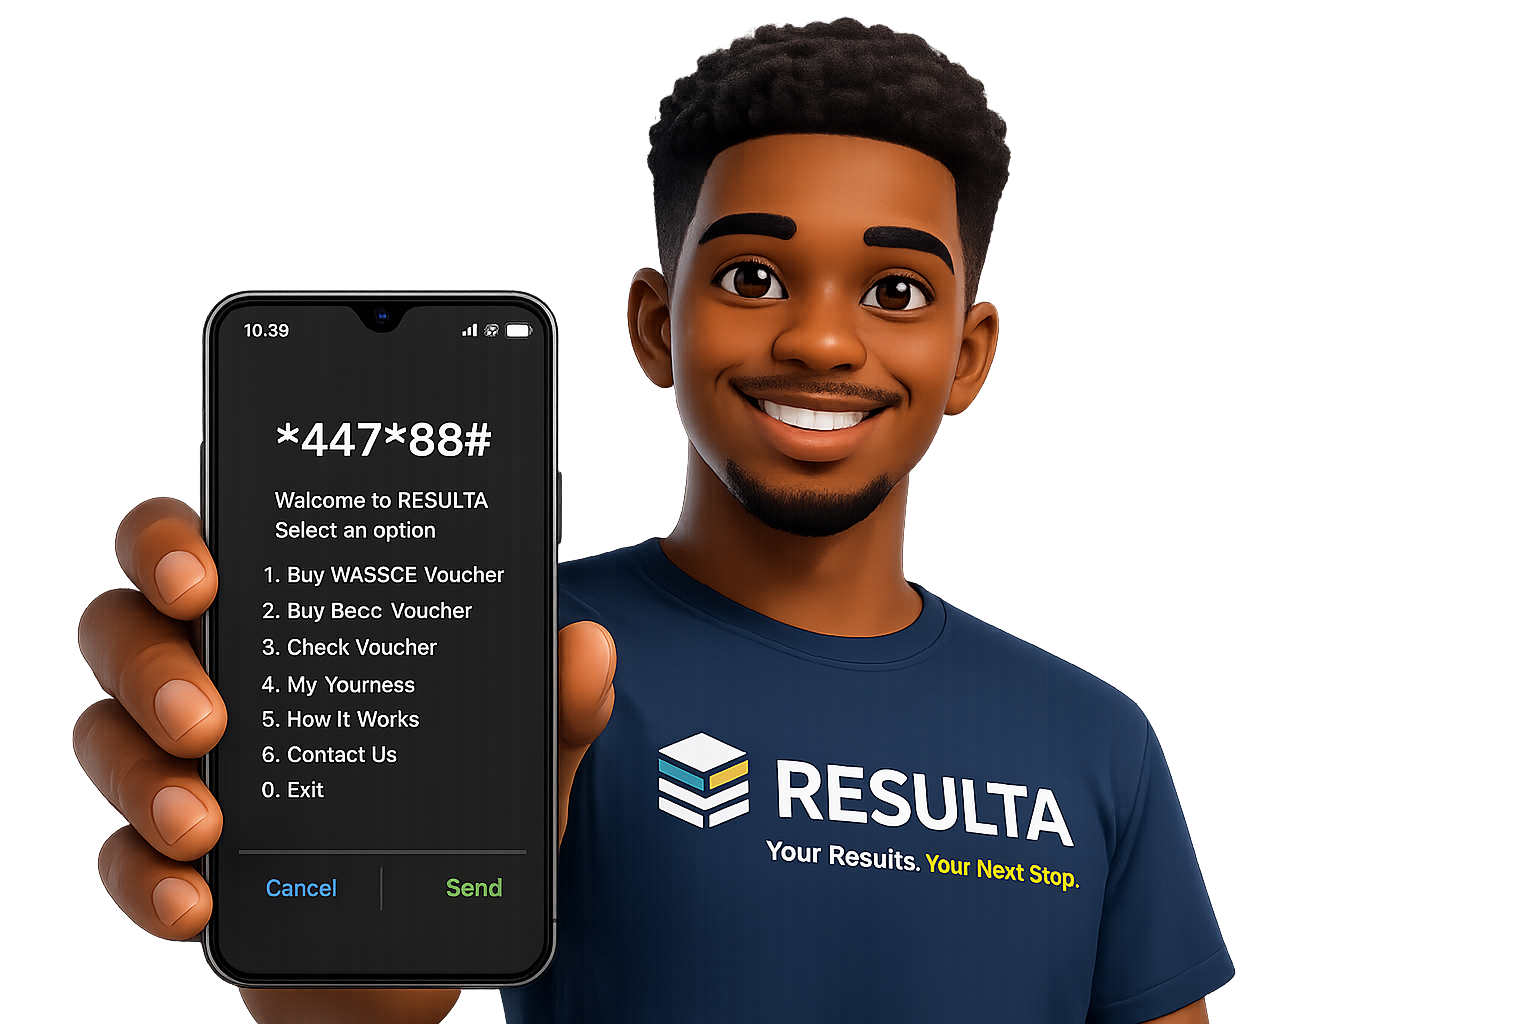
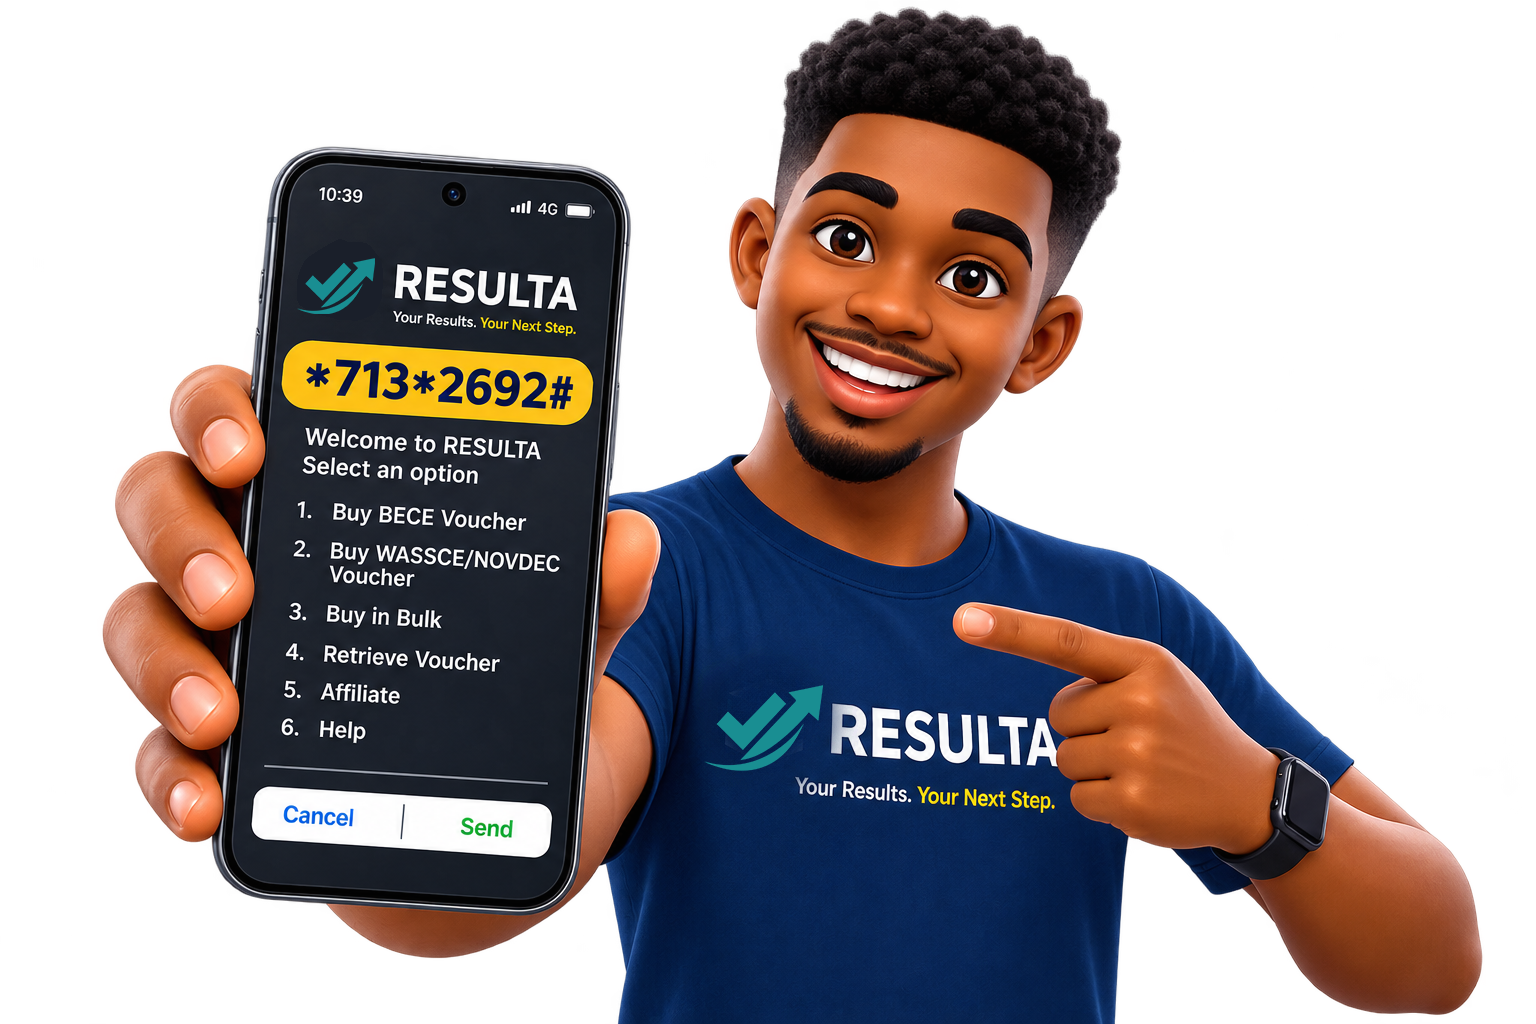
Live USSD codes updated on site

diff --git a/src/components/website/home/HeroSection.tsx b/src/components/website/home/HeroSection.tsx
@@ -102,11 +102,11 @@ const slides = [
             </span>
 
             <h1 className="text-3xl sm:text-4xl lg:text-5xl font-extrabold text-white leading-tight">
-              Buy your WASSCE/NOVDEC or BECE result-checking voucher quickly and securely.
+              Buy your WASSCE/NOVDEC and BECE result-checking voucher quickly and securely.
             </h1>
 
-            <p className="mt-6 text-base lg:text-lg text-white/90 leading-relaxed">
-              Get your voucher instantly after successful payment and take the next step toward your future.
+            <p className="font-extrabold text-accent mt-6 text-base text-3xl sm:text-4xl lg:text-5xl leading-relaxed">
+              *713*2692#
             </p>
 
               <div className="mt-8">
@@ -164,7 +164,7 @@ const slides = [
               </span>
 
               <h2 className="relative z-10 text-5xl sm:text-7xl lg:text-8xl font-black text-white leading-none tracking-tight">
-                *447*123#
+                *713*2692#
               </h2>
 
               <p className="relative z-10 mt-6 text-base lg:text-lg text-white/90 leading-relaxed">

diff --git a/src/components/website/home/HowItWorksUSSD.tsx b/src/components/website/home/HowItWorksUSSD.tsx
@@ -5,10 +5,10 @@ const steps = [
     id: 1,
     number: '01',
     title: 'DIAL',
-    description: '*447*123#',
+    description: '*713*2692#',
     phoneContent: {
       title: 'USSD',
-      lines: ['*447*123#', '', 'Connecting...'],
+      lines: ['*713*2692#', '', 'Connecting...'],
       accent: false,
     },
   },
@@ -30,7 +30,7 @@ const steps = [
     description: 'Confirm your payment',
     phoneContent: {
       title: 'RESULTA',
-      lines: ['WASSCE Voucher', '', 'Amount: GHS 20.00', '', '1. Confirm', '2. Cancel'],
+      lines: ['WASSCE Voucher', '', 'Amount: GHS 25.00', '', '1. Confirm', '2. Cancel'],
       accent: false,
     },
   },
@@ -115,7 +115,7 @@ const HowItWorksUSSD: React.FC = () => {
             How It Works
           </span>
           <h2 className="text-4xl sm:text-6xl lg:text-8xl font-extrabold text-white leading-tight">
-            *447*123#
+            *713*2692#
           </h2>
           <p className="mt-4 text-sm sm:text-base text-white/70 max-w-xl mx-auto">
             Get your Resulta voucher quickly and easily from your phone.
